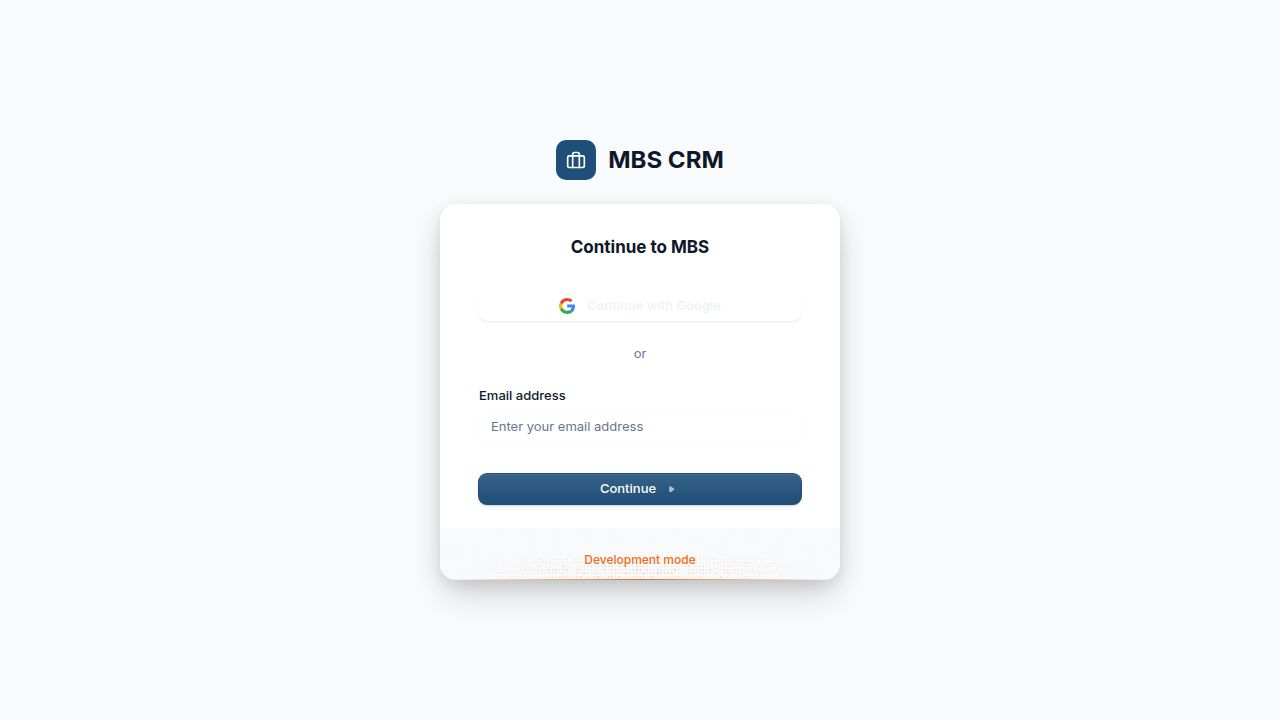
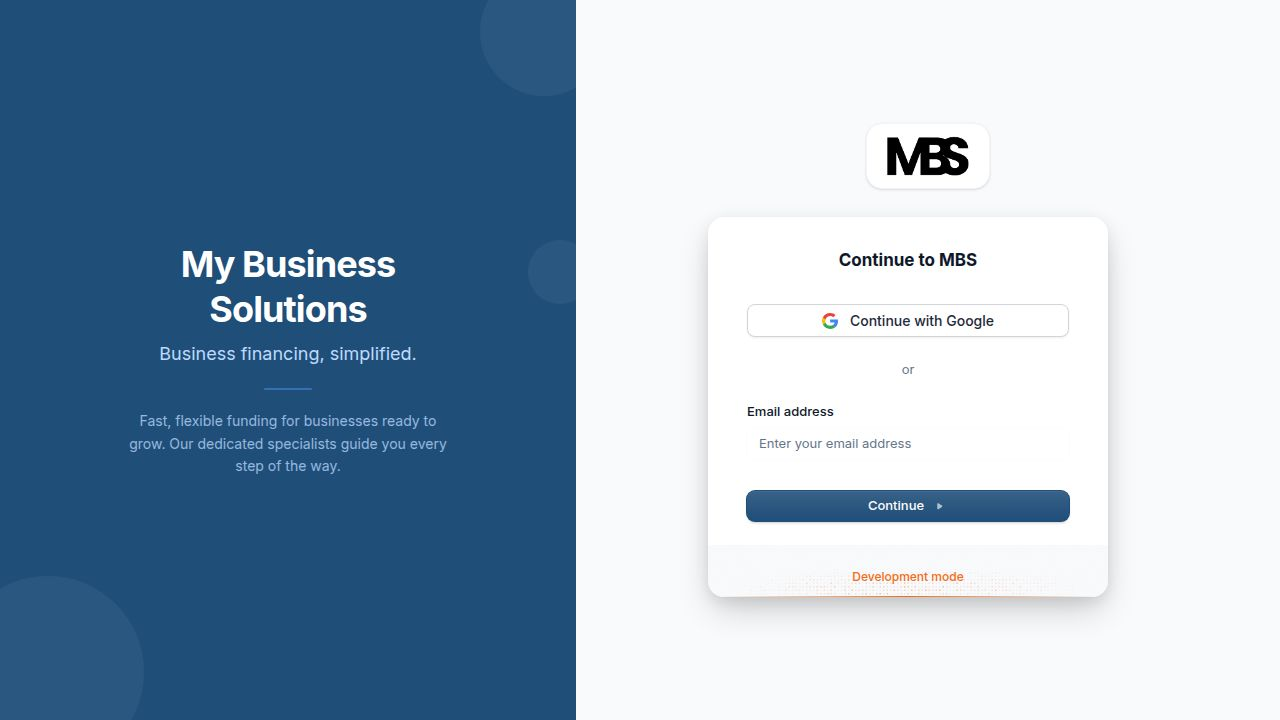
redesign: comprehensive visual layout pass — consistent containers, fixed tab bar, full-width content
STEP 0 — Shared layout system
- Created artifacts/mbs-crm/src/components/ui/page-layout.tsx with PageContainer (max-w-[1400px] mx-auto, responsive px, py) and PageHeader (flex row, title+subtitle left, actions right, responsive stacking)

STEP 1 — Lead-detail tab bar fix (visible collision bug)
- TabsList changed from grid grid-cols-12 (caused LendersMarketing, FinancialsCredit collision) to flex w-max min-w-full with overflow-x-auto wrapper
- Each TabsTrigger: shrink-0 whitespace-nowrap px-3 py-2, consistent icon alignment — tabs are now scrollable on mobile, evenly spaced on desktop

STEP 2 — Lead-detail page layout
- Sticky header now has max-w-[1400px] inner wrapper so it aligns with the content grid below
- h1 title reduced to text-2xl (was text-3xl) for consistent hierarchy; truncation added
- Content grid unchanged (lg:grid-cols-3, col-span-2 for tabs) — already well-proportioned

STEP 3 — Applied consistent container to ALL pages
- dashboard.tsx: flex-1 overflow-auto p-6 → max-w-[1400px] standard container; h1 text-3xl → text-2xl
- leads.tsx: flex-1 overflow-auto p-8 → standard container; mb-8 header → mb-6; h1 text-3xl → text-2xl
- settings.tsx: flex-1 overflow-auto p-8 → standard container; mb-8 → mb-6; h1 text-3xl → text-2xl
- lender-management.tsx: p-6 max-w-5xl → standard container; header uses flex-col sm:flex-row
- email-templates.tsx: p-6 max-w-5xl → standard container
- drip-sequences.tsx: p-6 max-w-4xl → standard container
[…]

diff --git a/artifacts/mbs-crm/src/components/ui/page-layout.tsx b/artifacts/mbs-crm/src/components/ui/page-layout.tsx
@@ -1,0 +1,55 @@
+import { cn } from "@/lib/utils";
+
+export function PageContainer({
+  children,
+  className,
+}: {
+  children: React.ReactNode;
+  className?: string;
+}) {
+  return (
+    <div
+      className={cn(
+        "w-full max-w-[1400px] mx-auto px-4 sm:px-6 lg:px-8 py-6 md:py-8",
+        className,
+      )}
+    >
+      {children}
+    </div>
+  );
+}
+
+export function PageHeader({
+  title,
+  subtitle,
+  actions,
+  className,
+}: {
+  title: React.ReactNode;
+  subtitle?: React.ReactNode;
+  actions?: React.ReactNode;
+  className?: string;
+}) {
+  return (
+    <div
+      className={cn(
+        "flex flex-col sm:flex-row sm:items-center justify-between gap-4 mb-6",
+        className,
+      )}
+    >
+      <div className="min-w-0">
+        <h1 className="text-2xl font-bold tracking-tight text-gray-900 leading-tight">
+          {title}
+        </h1>
+        {subtitle && (
+          <p className="text-sm text-muted-foreground mt-0.5">{subtitle}</p>
+        )}
+      </div>
+      {actions && (
+        <div className="flex items-center gap-2 flex-shrink-0 flex-wrap">
+          {actions}
+        </div>
+      )}
+    </div>
+  );
+}

diff --git a/artifacts/mbs-crm/src/pages/lead-detail.tsx b/artifacts/mbs-crm/src/pages/lead-detail.tsx
@@ -2547,20 +2547,21 @@ export default function LeadDetail() {
   return (
     <div className="flex-1 overflow-auto bg-gray-50/50">
       {/* Header */}
-      <div className="border-b bg-white px-8 py-6 shadow-sm sticky top-0 z-10">
-        <div className="mb-4">
+      <div className="border-b bg-white shadow-sm sticky top-0 z-10">
+        <div className="max-w-[1400px] mx-auto px-4 sm:px-6 lg:px-8 py-5">
+        <div className="mb-3">
           <Link href="/leads" className="inline-flex items-center text-sm font-medium text-muted-foreground hover:text-foreground transition-colors">
             <ArrowLeft className="mr-1 h-4 w-4" />
             Back to Leads
           </Link>
         </div>
         
-        <div className="flex flex-col md:flex-row md:items-start justify-between gap-4">
-          <div>
-            <h1 className="text-3xl font-bold tracking-tight text-gray-900">
+        <div className="flex flex-col md:flex-row md:items-center justify-between gap-4">
+          <div className="min-w-0">
+            <h1 className="text-2xl font-bold tracking-tight text-gray-900 truncate">
               {lead.firstName} {lead.lastName}
             </h1>
-            <div className="mt-2 flex flex-wrap items-center gap-4 text-sm text-muted-foreground">
+            <div className="mt-1.5 flex flex-wrap items-center gap-3 text-sm text-muted-foreground">
               {lead.companyName && (
                 <div className="flex items-center gap-1.5">
                   <Building2 className="h-4 w-4 text-gray-400" />
@@ -2601,6 +2602,7 @@ export default function LeadDetail() {
             </Select>
             <EditLeadDialog lead={lead} />
           </div>
+        </div>
         </div>
       </div>
 
@@ -2682,20 +2684,22 @@ export default function LeadDetail() {
         {/* Right Column: Tabs */}
         <div className="lg:col-span-2">
           <Tabs defaultValue="info" className="w-full">
-            <TabsList className="grid w-full grid-cols-12 bg-white shadow-sm border p-1 h-12">
-              <TabsTrigger value="info" className="flex gap-1.5 data-[state=active]:bg-blue-50 data-[state=active]:text-blue-700 text-xs"><User className="h-3.5 w-3.5"/> Info</TabsTrigger>
-              <TabsTrigger value="notes" className="flex gap-1.5 data-[state=active]:bg-blue-50 data-[state=active]:text-blue-700 text-xs"><FileText className="h-3.5 w-3.5"/> Notes</TabsTrigger>
-              <TabsTrigger value="tasks" className="flex gap-1.5 data-[state=active]:bg-blue-50 data-[state=active]:text-blue-700 text-xs"><CheckSquare className="h-3.5 w-3.5"/> Tasks</TabsTrigger>
-              <TabsTrigger value="documents" className="flex gap-1.5 data-[state=active]:bg-blue-50 data-[state=active]:text-blue-700 text-xs"><FileIcon className="h-3.5 w-3.5"/> Docs</TabsTrigger>
-              <TabsTrigger value="communications" className="flex gap-1.5 data-[state=active]:bg-blue-50 data-[state=active]:text-blue-700 text-xs"><MessageSquare className="h-3.5 w-3.5"/> Comms</TabsTrigger>
-              <TabsTrigger value="activity" className="flex gap-1.5 data-[state=active]:bg-blue-50 data-[state=active]:text-blue-700 text-xs"><Clock className="h-3.5 w-3.5"/> Activity</TabsTrigger>
-              <TabsTrigger value="lenders" className="flex gap-1.5 data-[state=active]:bg-blue-50 data-[state=active]:text-blue-700 text-xs"><Building2 className="h-3.5 w-3.5"/> Lenders</TabsTrigger>
-              <TabsTrigger value="marketing" className="flex gap-1.5 data-[state=active]:bg-blue-50 data-[state=active]:text-blue-700 text-xs"><Megaphone className="h-3.5 w-3.5"/> Marketing</TabsTrigger>
-              <TabsTrigger value="application" className="flex gap-1.5 data-[state=active]:bg-blue-50 data-[state=active]:text-blue-700 text-xs"><ClipboardList className="h-3.5 w-3.5"/> App</TabsTrigger>
-              <TabsTrigger value="financials" className="flex gap-1.5 data-[state=active]:bg-blue-50 data-[state=active]:text-blue-700 text-xs"><BarChart3 className="h-3.5 w-3.5"/> Financials</TabsTrigger>
-              <TabsTrigger value="credit" className="flex gap-1.5 data-[state=active]:bg-blue-50 data-[state=active]:text-blue-700 text-xs"><ShieldCheck className="h-3.5 w-3.5"/> Credit</TabsTrigger>
-              <TabsTrigger value="consent" className="flex gap-1.5 data-[state=active]:bg-blue-50 data-[state=active]:text-blue-700 text-xs"><ListChecks className="h-3.5 w-3.5"/> Consent</TabsTrigger>
+            <div className="overflow-x-auto">
+            <TabsList className="flex w-max min-w-full bg-white shadow-sm border p-1 gap-0.5 h-auto rounded-lg">
+              <TabsTrigger value="info" className="flex items-center gap-1.5 shrink-0 whitespace-nowrap px-3 py-2 text-xs data-[state=active]:bg-blue-50 data-[state=active]:text-blue-700"><User className="h-3.5 w-3.5 shrink-0"/> Info</TabsTrigger>
+              <TabsTrigger value="notes" className="flex items-center gap-1.5 shrink-0 whitespace-nowrap px-3 py-2 text-xs data-[state=active]:bg-blue-50 data-[state=active]:text-blue-700"><FileText className="h-3.5 w-3.5 shrink-0"/> Notes</TabsTrigger>
+              <TabsTrigger value="tasks" className="flex items-center gap-1.5 shrink-0 whitespace-nowrap px-3 py-2 text-xs data-[state=active]:bg-blue-50 data-[state=active]:text-blue-700"><CheckSquare className="h-3.5 w-3.5 shrink-0"/> Tasks</TabsTrigger>
+              <TabsTrigger value="documents" className="flex items-center gap-1.5 shrink-0 whitespace-nowrap px-3 py-2 text-xs data-[state=active]:bg-blue-50 data-[state=active]:text-blue-700"><FileIcon className="h-3.5 w-3.5 shrink-0"/> Docs</TabsTrigger>
+              <TabsTrigger value="communications" className="flex items-center gap-1.5 shrink-0 whitespace-nowrap px-3 py-2 text-xs data-[state=active]:bg-blue-50 data-[state=active]:text-blue-700"><MessageSquare className="h-3.5 w-3.5 shrink-0"/> Comms</TabsTrigger>
+              <TabsTrigger value="activity" className="flex items-center gap-1.5 shrink-0 whitespace-nowrap px-3 py-2 text-xs data-[state=active]:bg-blue-50 data-[state=active]:text-blue-700"><Clock className="h-3.5 w-3.5 shrink-0"/> Activity</TabsTrigger>
+              <TabsTrigger value="lenders" className="flex items-center gap-1.5 shrink-0 whitespace-nowrap px-3 py-2 text-xs data-[state=active]:bg-blue-50 data-[state=active]:text-blue-700"><Building2 className="h-3.5 w-3.5 shrink-0"/> Lenders</TabsTrigger>
+              <TabsTrigger value="marketing" className="flex items-center gap-1.5 shrink-0 whitespace-nowrap px-3 py-2 text-xs data-[state=active]:bg-blue-50 data-[state=active]:text-blue-700"><Megaphone className="h-3.5 w-3.5 shrink-0"/> Marketing</TabsTrigger>
+              <TabsTrigger value="application" className="flex items-center gap-1.5 shrink-0 whitespace-nowrap px-3 py-2 text-xs data-[state=active]:bg-blue-50 data-[state=active]:text-blue-700"><ClipboardList className="h-3.5 w-3.5 shrink-0"/> App</TabsTrigger>
+              <TabsTrigger value="financials" className="flex items-center gap-1.5 shrink-0 whitespace-nowrap px-3 py-2 text-xs data-[state=active]:bg-blue-50 data-[state=active]:text-blue-700"><BarChart3 className="h-3.5 w-3.5 shrink-0"/> Financials</TabsTrigger>
+              <TabsTrigger value="credit" className="flex items-center gap-1.5 shrink-0 whitespace-nowrap px-3 py-2 text-xs data-[state=active]:bg-blue-50 data-[state=active]:text-blue-700"><ShieldCheck className="h-3.5 w-3.5 shrink-0"/> Credit</TabsTrigger>
+              <TabsTrigger value="consent" className="flex items-center gap-1.5 shrink-0 whitespace-nowrap px-3 py-2 text-xs data-[state=active]:bg-blue-50 data-[state=active]:text-blue-700"><ListChecks className="h-3.5 w-3.5 shrink-0"/> Consent</TabsTrigger>
             </TabsList>
+          </div>
             <TabsContent value="info" className="outline-none">
               <LeadInfo lead={lead} leadId={id} />
             </TabsContent>

diff --git a/artifacts/mbs-crm/src/pages/credit-compliance.tsx b/artifacts/mbs-crm/src/pages/credit-compliance.tsx
@@ -68,16 +68,16 @@ export default function CreditCompliance() {
   const handleClear = () => { setStartDate(""); setEndDate(""); setRepId("all"); setLeadIdFilter(""); setPage(1); };
 
   return (
-    <div className="p-6 max-w-7xl mx-auto space-y-6">
-      <div className="flex items-center justify-between">
+    <div className="w-full max-w-[1400px] mx-auto px-4 sm:px-6 lg:px-8 py-6 md:py-8 space-y-6">
+      <div className="flex flex-col sm:flex-row sm:items-center justify-between gap-4">
         <div>
-          <h1 className="text-2xl font-bold flex items-center gap-2">
-            <ShieldCheck className="h-6 w-6 text-[#1F4E79]" />
+          <h1 className="text-2xl font-bold tracking-tight text-gray-900 flex items-center gap-2">
+            <ShieldCheck className="h-5 w-5 text-[#1F4E79]" />
             Credit Compliance Log
           </h1>
           <p className="text-muted-foreground text-sm mt-0.5">Read-only append-only audit trail of all Experian credit pulls</p>
         </div>
-        <Button variant="outline" onClick={handleExport} className="gap-2">
+        <Button variant="outline" onClick={handleExport} className="gap-2 flex-shrink-0">
           <Download className="h-4 w-4" />
           Export CSV
         </Button>

diff --git a/artifacts/mbs-crm/src/pages/flyer-templates.tsx b/artifacts/mbs-crm/src/pages/flyer-templates.tsx
@@ -297,13 +297,13 @@ export default function FlyerTemplatesPage() {
     pt === "working_capital" ? "Working Capital" : pt === "equipment" ? "Equipment" : "General";
 
   return (
-    <div className="max-w-5xl mx-auto px-4 py-8 space-y-6">
-      <div className="flex items-center justify-between">
+    <div className="w-full max-w-[1400px] mx-auto px-4 sm:px-6 lg:px-8 py-6 md:py-8 space-y-6">
+      <div className="flex flex-col sm:flex-row sm:items-center justify-between gap-4">
         <div>
-          <h1 className="text-2xl font-bold text-[#1F4E79] flex items-center gap-2">
-            <Megaphone className="h-6 w-6" /> Flyer Templates
+          <h1 className="text-2xl font-bold tracking-tight text-gray-900 flex items-center gap-2">
+            <Megaphone className="h-5 w-5 text-[#1F4E79]" /> Flyer Templates
           </h1>
-          <p className="text-sm text-muted-foreground mt-1">
+          <p className="text-sm text-muted-foreground mt-0.5">
             Create and manage branded PDF flyer templates for marketing to leads.
           </p>
         </div>

diff --git a/artifacts/mbs-crm/src/pages/workflow-rules.tsx b/artifacts/mbs-crm/src/pages/workflow-rules.tsx
@@ -217,15 +217,15 @@ export default function WorkflowRules() {
   }
 
   return (
-    <div className="p-6 max-w-5xl mx-auto">
-      <div className="flex items-center justify-between mb-6">
+    <div className="w-full max-w-[1400px] mx-auto px-4 sm:px-6 lg:px-8 py-6 md:py-8">
+      <div className="flex flex-col sm:flex-row sm:items-center justify-between gap-4 mb-6">
         <div className="flex items-center gap-3">
-          <div className="flex h-9 w-9 items-center justify-center rounded-lg bg-[#1F4E79] text-white">
+          <div className="flex h-9 w-9 items-center justify-center rounded-lg bg-[#1F4E79] text-white flex-shrink-0">
             <Zap size={18} />
           </div>
           <div>
-            <h1 className="text-xl font-bold text-slate-900">Workflow Rules</h1>
-            <p className="text-sm text-slate-500">Automatically create tasks or send notifications when a lead changes status.</p>
+            <h1 className="text-2xl font-bold tracking-tight text-gray-900">Workflow Rules</h1>
+            <p className="text-sm text-muted-foreground mt-0.5">Automatically create tasks or send notifications when a lead changes status.</p>
           </div>
         </div>
         <Button onClick={openCreate} className="bg-[#1F4E79] hover:bg-[#163a5f] text-white gap-2">

diff --git a/artifacts/mbs-crm/src/pages/dashboard.tsx b/artifacts/mbs-crm/src/pages/dashboard.tsx
@@ -210,12 +210,12 @@ export default function Dashboard() {
   const selectedRepName = reps?.find((r) => r.repId === selectedRepId)?.repName;
 
   return (
-    <div className="flex-1 overflow-auto p-6">
+    <div className="w-full max-w-[1400px] mx-auto px-4 sm:px-6 lg:px-8 py-6 md:py-8">
       {/* Header */}
-      <div className="flex items-center justify-between mb-6">
+      <div className="flex flex-col sm:flex-row sm:items-center justify-between gap-4 mb-6">
         <div>
-          <h1 className="text-3xl font-bold tracking-tight text-gray-900">Dashboard</h1>
-          <p className="text-muted-foreground mt-1 text-sm">
+          <h1 className="text-2xl font-bold tracking-tight text-gray-900">Dashboard</h1>
+          <p className="text-muted-foreground mt-0.5 text-sm">
             {isRep ? "Your performance metrics" : "Team pipeline analytics"}
           </p>
         </div>

diff --git a/artifacts/mbs-crm/src/pages/leads.tsx b/artifacts/mbs-crm/src/pages/leads.tsx
@@ -441,11 +441,11 @@ export default function Leads() {
   };
 
   return (
-    <div className="flex-1 overflow-auto p-8">
-      <div className="flex flex-col sm:flex-row items-start sm:items-center justify-between mb-8 gap-4">
+    <div className="w-full max-w-[1400px] mx-auto px-4 sm:px-6 lg:px-8 py-6 md:py-8">
+      <div className="flex flex-col sm:flex-row sm:items-center justify-between mb-6 gap-4">
         <div>
-          <h1 className="text-3xl font-bold tracking-tight text-gray-900">Leads</h1>
-          <p className="text-muted-foreground mt-1">Manage and track your financing pipeline</p>
+          <h1 className="text-2xl font-bold tracking-tight text-gray-900">Leads</h1>
+          <p className="text-muted-foreground mt-0.5 text-sm">Manage and track your financing pipeline</p>
         </div>
         <div className="flex items-center gap-3">
           {isManagerOrAdmin && (

diff --git a/artifacts/mbs-crm/src/pages/lender-management.tsx b/artifacts/mbs-crm/src/pages/lender-management.tsx
@@ -254,11 +254,11 @@ export default function LenderManagement() {
   const visible = (lenders ?? []).filter((l: any) => showInactive || l.isActive);
 
   return (
-    <div className="p-6 max-w-5xl mx-auto space-y-6">
-      <div className="flex items-center justify-between">
+    <div className="w-full max-w-[1400px] mx-auto px-4 sm:px-6 lg:px-8 py-6 md:py-8 space-y-6">
+      <div className="flex flex-col sm:flex-row sm:items-center justify-between gap-4">
         <div>
-          <h1 className="text-2xl font-bold text-[#1F4E79]">Lender Management</h1>
-          <p className="text-sm text-muted-foreground mt-1">Manage your lender network and matching criteria</p>
+          <h1 className="text-2xl font-bold tracking-tight text-gray-900">Lender Management</h1>
+          <p className="text-sm text-muted-foreground mt-0.5">Manage your lender network and matching criteria</p>
         </div>
         <div className="flex items-center gap-3">
           <label className="flex items-center gap-1.5 text-sm text-slate-600 cursor-pointer">

diff --git a/artifacts/mbs-crm/src/pages/settings.tsx b/artifacts/mbs-crm/src/pages/settings.tsx
@@ -104,10 +104,10 @@ export default function Settings() {
   const isAdmin = me?.role === UserRole.admin;
 
   return (
-    <div className="flex-1 overflow-auto p-8">
-      <div className="mb-8">
-        <h1 className="text-3xl font-bold tracking-tight text-gray-900">Settings</h1>
-        <p className="text-muted-foreground mt-1">Manage your account and organization settings.</p>
+    <div className="w-full max-w-[1400px] mx-auto px-4 sm:px-6 lg:px-8 py-6 md:py-8">
+      <div className="mb-6">
+        <h1 className="text-2xl font-bold tracking-tight text-gray-900">Settings</h1>
+        <p className="text-muted-foreground mt-0.5 text-sm">Manage your account and organization settings.</p>
       </div>
 
       <div className="grid gap-8">

diff --git a/artifacts/mbs-crm/src/pages/system-health.tsx b/artifacts/mbs-crm/src/pages/system-health.tsx
@@ -68,7 +68,7 @@ export default function SystemHealth() {
 
   if (!isAdmin) {
     return (
-      <div className="p-6 md:p-8">
+      <div className="w-full max-w-[1400px] mx-auto px-4 sm:px-6 lg:px-8 py-6 md:py-8">
         <Empty>
           <EmptyMedia variant="icon">
             <ShieldAlert className="h-5 w-5" />
@@ -88,11 +88,11 @@ export default function SystemHealth() {
   const limit = data?.pagination?.limit ?? 25;
 
   return (
-    <div className="p-6 md:p-8 max-w-5xl mx-auto space-y-6">
+    <div className="w-full max-w-[1400px] mx-auto px-4 sm:px-6 lg:px-8 py-6 md:py-8 space-y-6">
       {/* Header */}
       <div>
-        <h1 className="text-2xl font-bold tracking-tight">System Health</h1>
-        <p className="text-muted-foreground text-sm mt-1">
+        <h1 className="text-2xl font-bold tracking-tight text-gray-900">System Health</h1>
+        <p className="text-muted-foreground text-sm mt-0.5">
           Live error log and background job status.
         </p>
       </div>

diff --git a/artifacts/mbs-crm/src/pages/drip-sequences.tsx b/artifacts/mbs-crm/src/pages/drip-sequences.tsx
@@ -292,10 +292,10 @@ export default function DripSequences() {
   const { data: sequences, isLoading } = useListDripSequences({ query: { queryKey: ["drip-sequences"] } });
 
   return (
-    <div className="p-6 max-w-4xl mx-auto space-y-6">
-      <div className="flex items-center justify-between">
+    <div className="w-full max-w-[1400px] mx-auto px-4 sm:px-6 lg:px-8 py-6 md:py-8 space-y-6">
+      <div className="flex flex-col sm:flex-row sm:items-center justify-between gap-4">
         <div>
-          <h1 className="text-2xl font-bold text-slate-900">Drip Sequences</h1>
+          <h1 className="text-2xl font-bold tracking-tight text-gray-900">Drip Sequences</h1>
           <p className="text-sm text-muted-foreground mt-0.5">
             Automated email campaigns triggered by lead status changes.
           </p>

diff --git a/artifacts/mbs-crm/src/pages/email-templates.tsx b/artifacts/mbs-crm/src/pages/email-templates.tsx
@@ -322,10 +322,10 @@ export default function EmailTemplates() {
   const { data: templates, isLoading } = useListEmailTemplates(undefined, { query: { queryKey: ["email-templates"] } });
 
   return (
-    <div className="p-6 max-w-5xl mx-auto space-y-6">
-      <div className="flex items-center justify-between">
+    <div className="w-full max-w-[1400px] mx-auto px-4 sm:px-6 lg:px-8 py-6 md:py-8 space-y-6">
+      <div className="flex flex-col sm:flex-row sm:items-center justify-between gap-4">
         <div>
-          <h1 className="text-2xl font-bold text-slate-900">Email Templates</h1>
+          <h1 className="text-2xl font-bold tracking-tight text-gray-900">Email Templates</h1>
           <p className="text-sm text-muted-foreground mt-0.5">Manage reusable email templates with variable substitution.</p>
         </div>
         <div className="flex items-center gap-2">